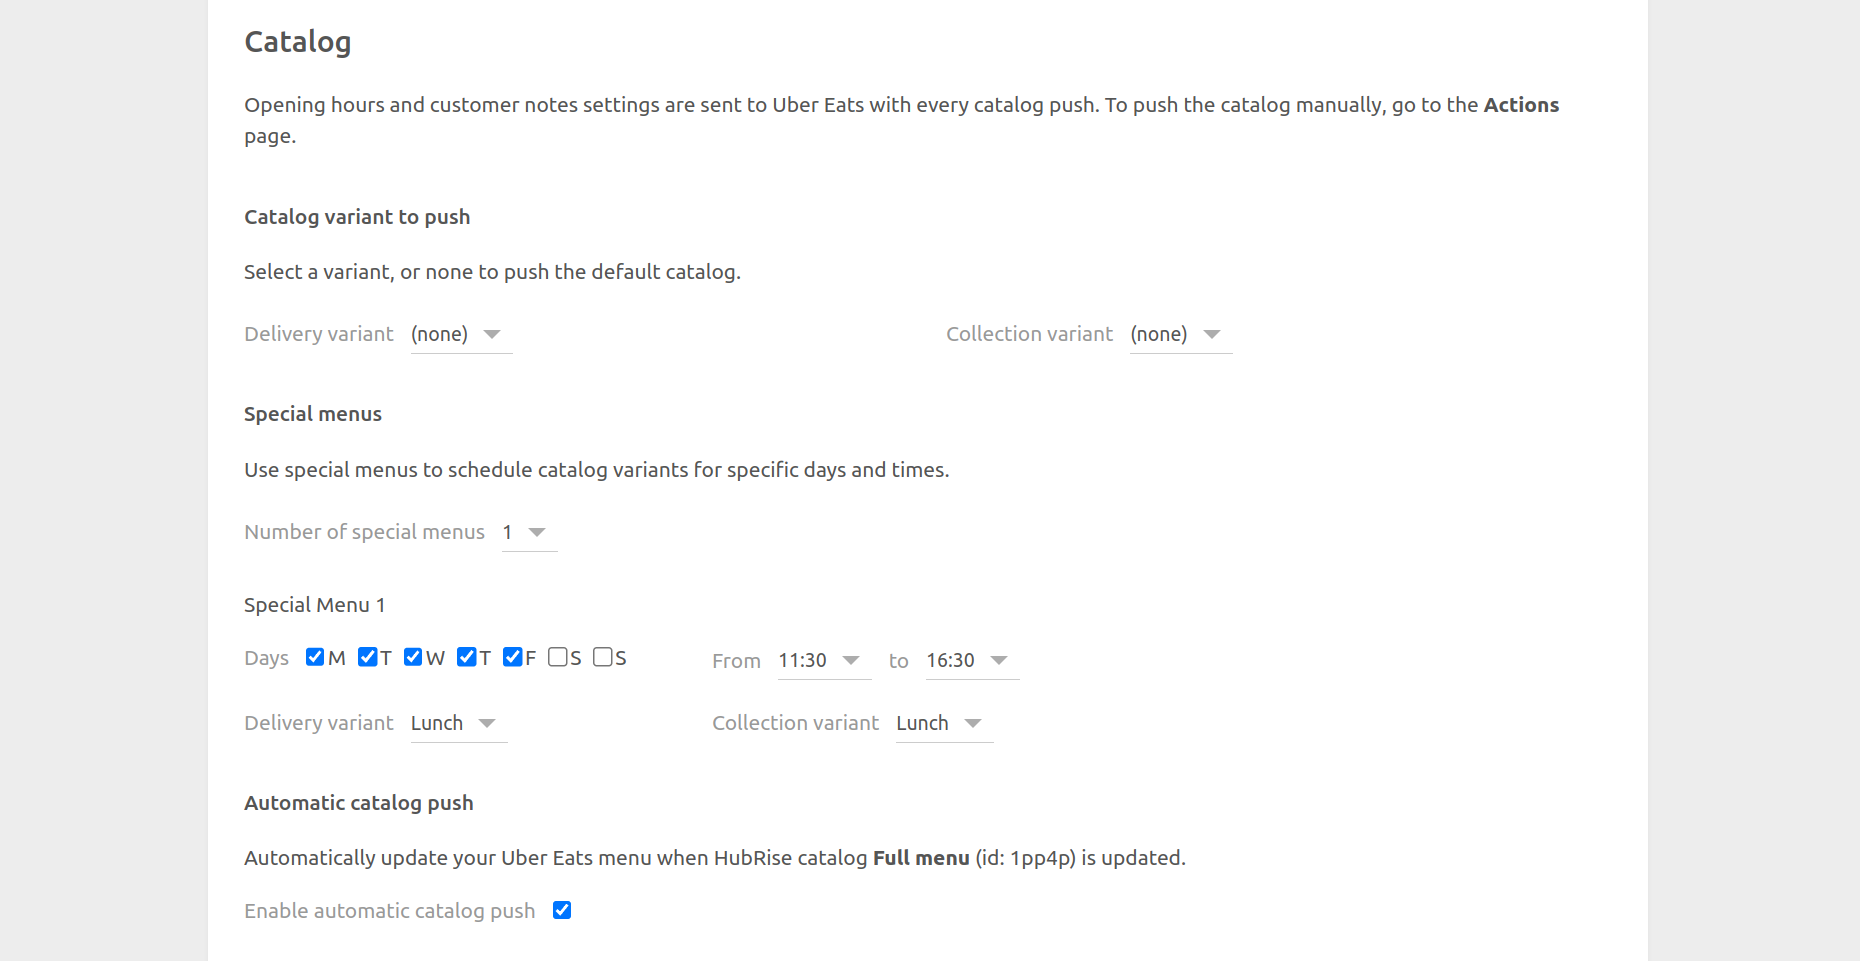
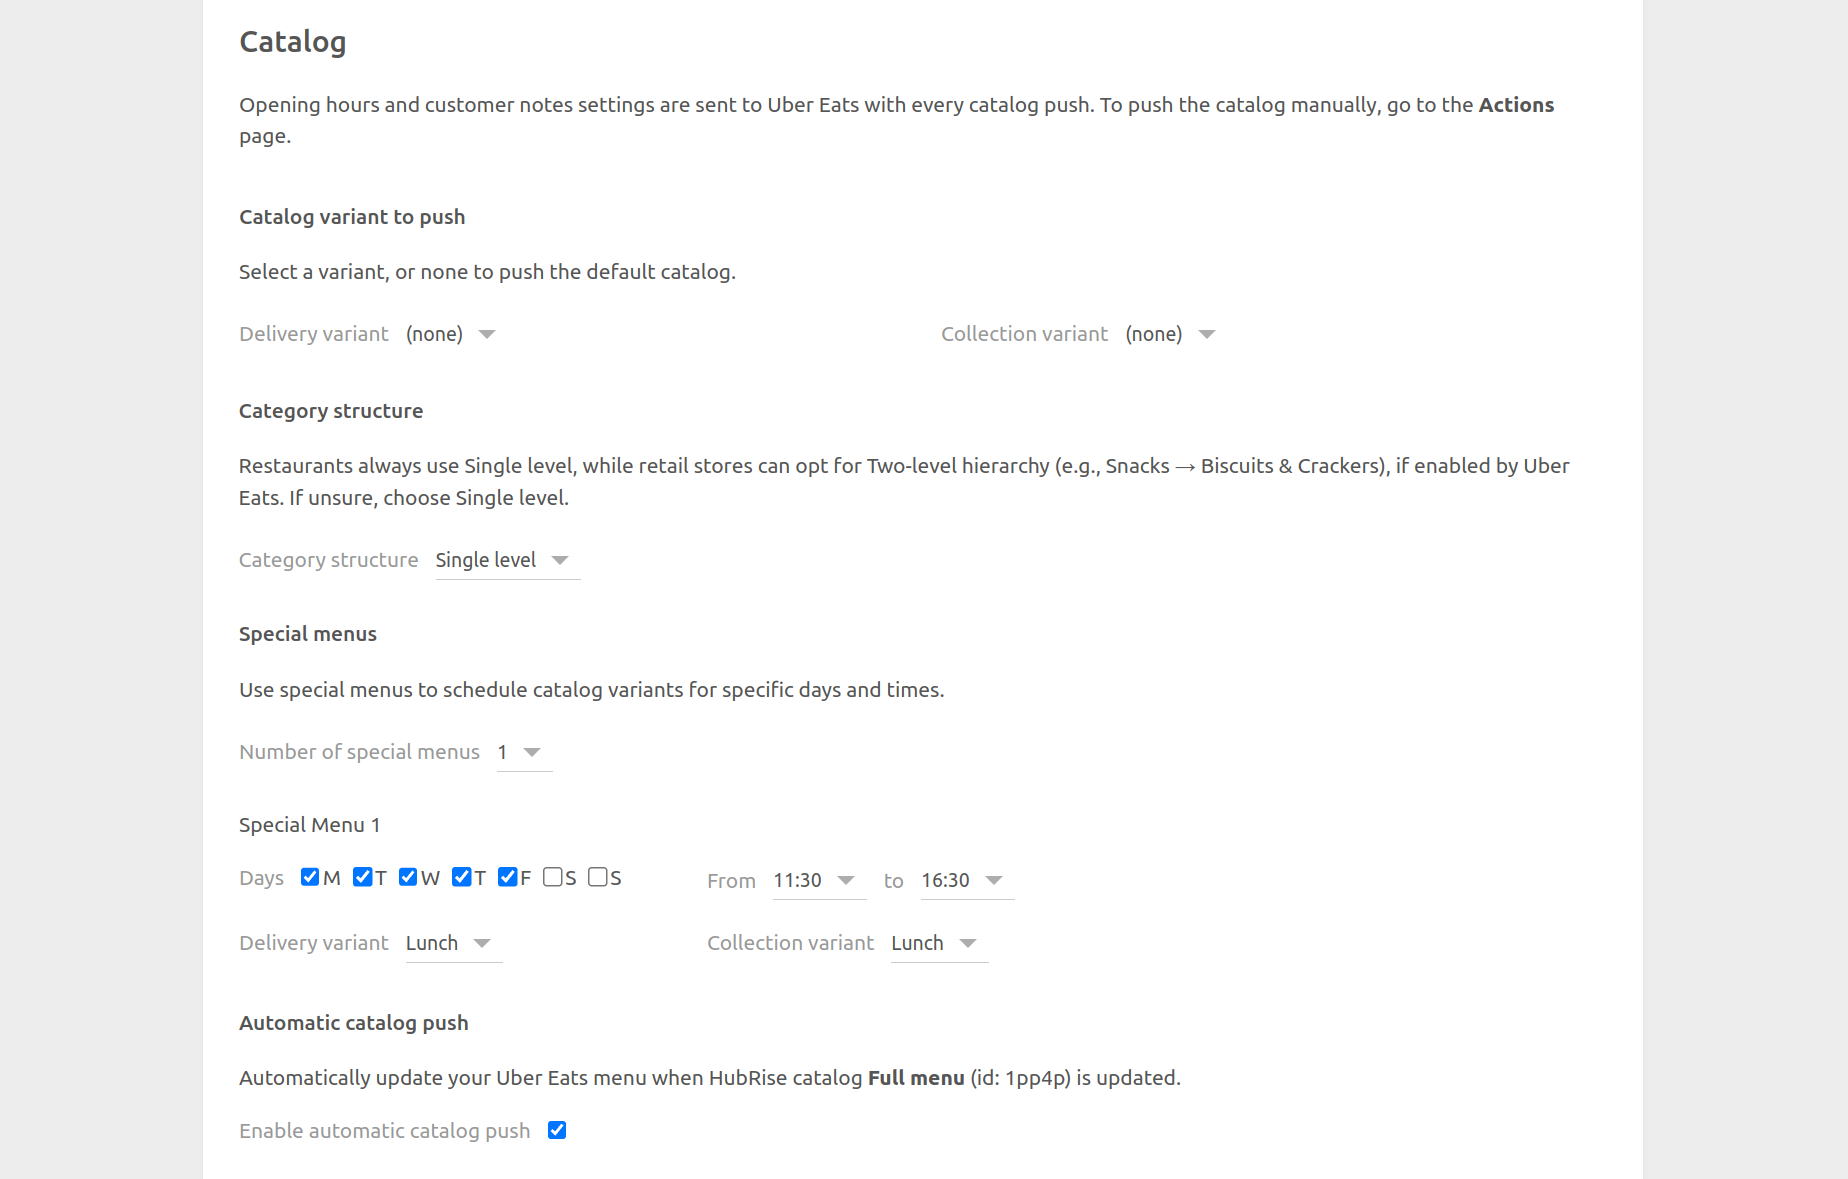
[Uber Eats] Two-level categories

diff --git a/content/apps/uber-eats/fr/configuration.md b/content/apps/uber-eats/fr/configuration.md
@@ -32,11 +32,11 @@ Dans cette section, vous pouvez également choisir de marquer les commandes livr
 
 ### Articles spéciaux
 
-Par défaut, Uber Eats active une case à cocher dans le processus de paiement pour permettre aux clients de **Demander des couverts, pailles, etc.**, comme indiqué dans la capture d'écran ci-dessous.
+Uber Eats propose en option d'inclure une case à cocher dans le processus de commande pour permettre aux clients de **Demander des couverts, pailles, etc.**, comme montré dans l'image ci-dessous.
 
 ![Case à cocher des articles jetables lors du paiement sur Uber Eats](./images/009-disposable-items.png)
 
-Vous pouvez demander à Uber Eats de désactiver cette fonctionnalité. Si vous préférez la garder, créez un produit "Articles jetables" dans votre logiciel de caisse et utilisez son code ref dans le champ **Code ref jetables**.
+Pour activer cette fonctionnalité, créez un produit "Objets jetables" dans votre logiciel de caisse, saisissez son code ref dans le champ **Code de référence des objets jetables**, et demandez à Uber Eats d'activer cette option.
 
 ### Remises
 
@@ -76,15 +76,35 @@ Les variantes de catalogue vous donnent la flexibilité de désactiver des artic
 
 Si votre catalogue comprend des variantes, vous pouvez sélectionner celles que vous souhaitez utiliser. Vous pouvez choisir des variantes différentes pour les menus livraison et à emporter, ou utiliser la même pour les deux menus. Lorsque la valeur **(aucune)** est sélectionnée, tous les articles ainsi que leurs prix standards sont envoyés à Uber Eats.
 
+### Structure des catégories {#category-structure}
+
+Uber Eats permet deux types de structures de catégories :
+
+- **Niveau unique** : toutes les catégories sont au même niveau.
+- **Deux niveaux** : les catégories sont imbriquées (par exemple, Épicerie Salée → Biscuits & Crackers).
+
+Les restaurants utilisent toujours un niveau unique, tandis que les commerces de détail peuvent choisir une hiérarchie à deux niveaux si elle est activée par le support Uber Eats. Si vous n'êtes pas sûr, gardez **Niveau unique** sélectionné.
+
+### Menus spéciaux
+
+Les menus spéciaux vous permettent de planifier des variantes de catalogue à des jours et des heures spécifiques. Cette fonctionnalité est utile pour proposer des menus distincts pour le petit déjeuner et le déjeuner, par exemple.
+
+Pour configurer des menus spéciaux :
+
+1. Assurez-vous que votre catalogue contient les variantes nécessaires.
+2. Sélectionnez le nombre de menus spéciaux que vous souhaitez configurer (jusqu'à 5) dans le menu déroulant.
+3. Pour chaque menu spécial :
+   - Sélectionnez les jours de la semaine où le menu doit être actif.
+   - Sélectionner l'heure de début (**De**) et l'heure de fin (**A**) du menu.
+   - Choisissez les variantes de catalogue à utiliser pour la livraison et le retrait durant cette période.
+
+Lorsque des menus spéciaux sont configurés, Uber Eats basculera automatiquement vers la variante appropriée du catalogue en fonction du délai de commande prévu, que ce soit pour la livraison ou le retrait.
+
+S'il n'y a pas de menu spécial actif à un moment donné, Uber Eats utilisera les variantes de catalogue par défaut configurées dans les paramètres **Variante de catalogue à envoyer** pour la livraison et la vente à emporter.
+
 ### Envoi automatique du catalogue
 
 Sélectionnez la case **Activer l'envoi automatique du catalogue** pour synchroniser votre catalogue HubRise avec Uber Eats chaque fois qu'il est mis à jour.
-
-### Notes de préparation
-
-Vous pouvez activer les Notes de préparation pour des produits individuels en contactant l'équipe d'assistance Uber Eats. Cette fonctionnalité d'intégration est prise en charge, mais elle ne peut pas être activée par HubRise.
-
-Si vous activez les notes de préparation, assurez-vous que le logiciel de caisse qui est connecté les prend en charge au niveau du produit.
 
 ## Point de vente {#location}
 

diff --git a/content/apps/uber-eats/fr/push-catalog.md b/content/apps/uber-eats/fr/push-catalog.md
@@ -58,9 +58,11 @@ Les sections suivantes expliquent en détail comment votre catalogue HubRise est
 
 ### Catégories
 
-Uber Eats Bridge associe les catégories HubRise et les catégories de produits sur Uber Eats.
+Uber Eats Bridge associe les catégories HubRise aux catégories Uber Eats. Le nom de la catégorie, son code ref et sa description sont envoyés à Uber Eats. Par défaut, les catégories sont aplaties.
 
-Le nom de la catégorie, son code ref et sa description sont envoyés à Uber Eats.
+Pour les commerces de détail, le mode deux niveaux peut être activé. Dans ce mode, les catégories principales sont envoyées sous forme de menus, et leurs sous-catégories respectives sont incluses dans chaque menu. Dans Uber Eats, les menus apparaissent comme des catégories principales, de la même manière que des rayons de supermarchés (par exemple, Boissons → Sodas, Bières).
+
+Le mode deux niveaux n'est disponible que pour les commerces de détail. Il doit être activé par le support Uber Eats et activé dans la [Page de configuration](/apps/uber-eats/configuration#category-structure).
 
 ### Produits et SKU
 
@@ -113,6 +115,7 @@ Pour chaque [produit](/developers/api/catalogs#products) avec plusieurs SKU, Ube
 - `price` : prix minimum de tous les SKU
 - `image` : adresse URL de l'image du produit parent
 - `tags` : tags décrivant les caractéristiques et les restrictions du produit, telles que les allergènes ou la saveur épicée. Pour consulter la liste des tags disponibles sur Uber Eats, voir [Tags produit](#product-tags).
+- `barcodes` : seul le premier code-barres est envoyé, s'il est présent.
 
 La liste des SKU est associée au produit sous forme de tableau de modificateurs.
 

diff --git a/content/apps/uber-eats/en/configuration.md b/content/apps/uber-eats/en/configuration.md
@@ -76,6 +76,15 @@ Catalog variants give you the flexibility to disable specific items or adjust pr
 
 If your catalog includes variants, you have the option to select which ones to use. You can select different variants for the delivery and collection menus, or use the same variant for both. When **(none)** is selected, all items along with their standard prices are sent to Uber Eats.
 
+### Category Structure {#category-structure}
+
+Uber Eats allows two types of category structures:
+
+- **Single level**: all categories are at the same level. 
+- **Two-level**: categories are nested (e.g., Snacks → Biscuits & Crackers).
+
+Restaurants always use a single level, while retail stores can opt for a two-level hierarchy if enabled by Uber Eats support. If unsure, keep **Single level** selected.
+
 ### Special Menus
 
 Special menus allow you to schedule different catalog variants for specific days and times. This feature is useful for offering separate breakfast or lunch menus, for example.

diff --git a/content/apps/uber-eats/en/push-catalog.md b/content/apps/uber-eats/en/push-catalog.md
@@ -58,9 +58,11 @@ The following sections provide more details on how your HubRise catalog is mappe
 
 ### Categories
 
-Uber Eats Bridge maps HubRise categories one-to-one to categories of products on Uber Eats.
+Uber Eats Bridge maps HubRise categories to Uber Eats categories. The category name, ref code, and description are sent to Uber Eats. By default, categories are flattened.
 
-The category name, ref code, and description are sent to Uber Eats.
+For retail stores, two-level mode can be enabled. In this mode, top-level categories are sent as menus, with their subcategories listed within each menu. In Uber Eats, menus appear as main categories, similar to supermarket aisles (e.g., Drinks → Sodas, Beers).
+
+Two-level mode is only available for retail stores. It must be enabled by Uber Eats support and activated in the [Configuration Page](/apps/uber-eats/configuration#category-structure).
 
 ### Products and Skus
 
